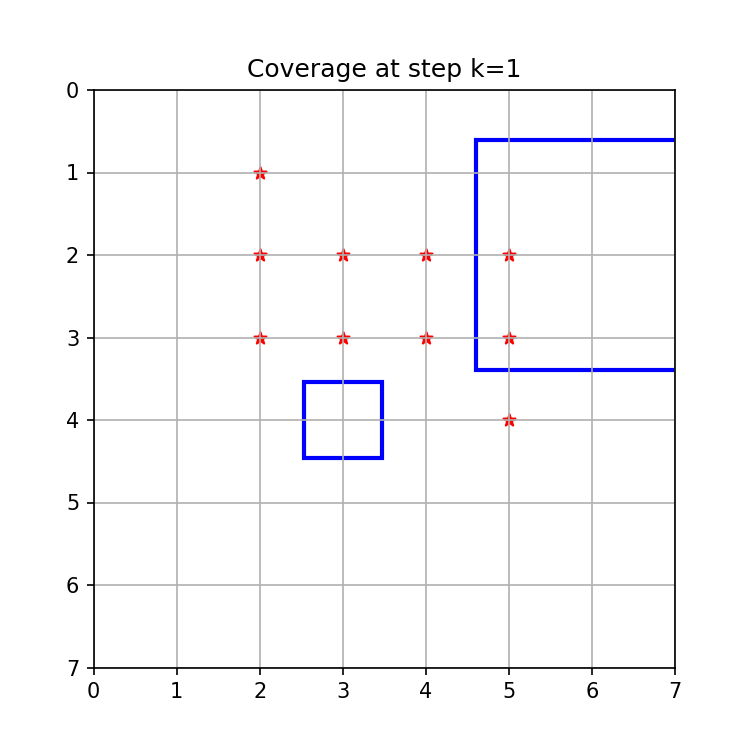
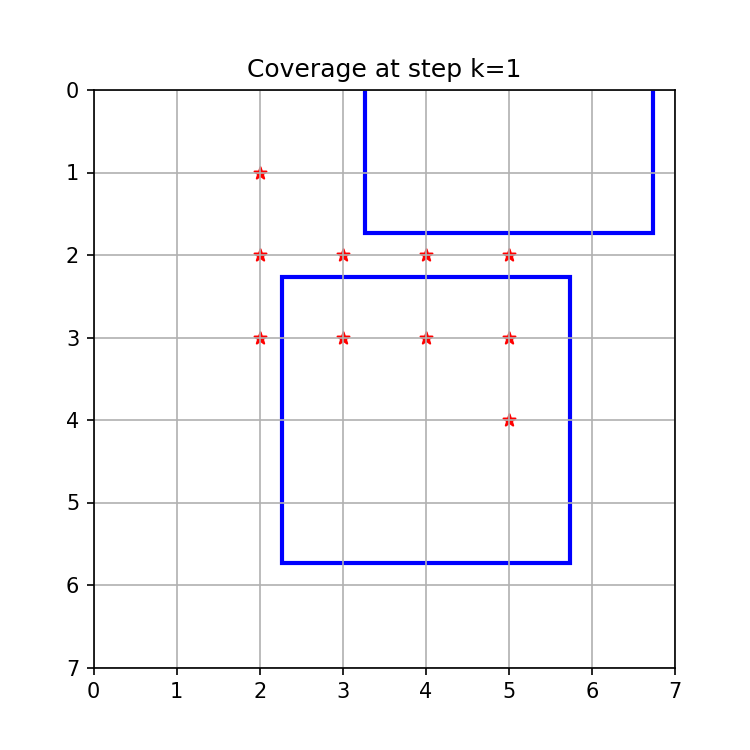
compared Markov Potential game agasint correalted equilibrim solution

Changed region(s): [[0.368, 0.1227, 0.8893, 0.7667], [0.46, 0.1227, 0.4907, 0.3067]]

diff --git a/main.py b/main.py
@@ -122,21 +122,19 @@ def main():
 
     try:
         for episode in range(args.n_episodes):
-            if args.perturb_foi is not None and episode == int(args.perturb_foi[1]):
-                print('FOI perturbation applied.')
-                env.foi = np.genfromtxt(args.perturb_foi[0], delimiter=',')
-            if args.perturb_fov is not None and episode == int(args.perturb_fov[1]):
-                print('FOV perturbation applied.')
-                env.fov = float(args.perturb_fov[0])
+            # if args.perturb_foi is not None and episode == int(args.perturb_foi[1]):
+            #     print('FOI perturbation applied.')
+            #     env.foi = np.genfromtxt(args.perturb_foi[0], delimiter=',')
+            # if args.perturb_fov is not None and episode == int(args.perturb_fov[1]):
+            #     print('FOV perturbation applied.')
+            #     env.fov = float(args.perturb_fov[0])
             state = env.reset()
             done = False
             for k in range(args.episode_max_steps):
                 #### Plotting a few snapshots in the very last training episode
                 if episode == args.n_episodes - 1:
-                    snapshot_steps = [1, 2, 3, 4, 5, 6, 7, 8]
                     os.makedirs(args.output_dir, exist_ok=True)
-                    if (k+1) in snapshot_steps:
-                        save_coverage_snapshot(env, k+1, args.output_dir)
+                    save_coverage_snapshot(env, k+1, args.output_dir)
                 for i in range(args.n_drones):
                     epsilon = args.min_eps + (args.max_eps - args.min_eps) * math.exp(-1. * steps / args.eps_decay)
                     pi_A = pi(phi, theta, state, eps=epsilon)  

diff --git a/main_potential.py b/main_potential.py
@@ -68,10 +68,9 @@ def q_learning_potential_fa(args, env, phi_func, actions_dict,
 
         for t in range(max_steps):
             if ep == n_episodes - 1:
-                snapshot_steps = [1, 5, 10, 20, 30, 40, 50]
                 os.makedirs(args.output_dir, exist_ok=True)
-                if t in snapshot_steps:
-                    save_coverage_snapshot(env, t, args.output_dir)
+                # if (t+1) in snapshot_steps:
+                save_coverage_snapshot(env, t+1, args.output_dir)
             steps_done += 1
             epsilon = get_epsilon(steps_done)
 
@@ -124,7 +123,7 @@ def main():
     parser.add_argument('foi', type=str, help='File containing FOI data.')
     parser.add_argument('output_dir', type=str, help='Output directory.')
     parser.add_argument('-f', action='store_true', help='Overwrite output directory if it already exists.')
-    parser.add_argument('--fov', type=float, default=np.radians(25), help='Drone field of vision.')
+    parser.add_argument('--fov', type=float, default=np.radians(30), help='Drone field of vision.')
     parser.add_argument('--env_dim', default=None, nargs=3, type=int,
                         metavar=('X', 'Y', 'Z'),
                         help='Environment dimensions. Inferred from FOI if not specified.')

diff --git a/field_coverage_env.py b/field_coverage_env.py
@@ -52,7 +52,7 @@ class FieldCoverageEnv(gym.Env):
         self._drones = drones
         return self._state()
 
-    def step(self, action, potential = False):
+    def step(self, action,):
         assert len(action) == len(self._drones), 'Joint action must be defined for each agent.'
         for drone, a in action.items():
             self._move_drone(drone, self.Action(a))
